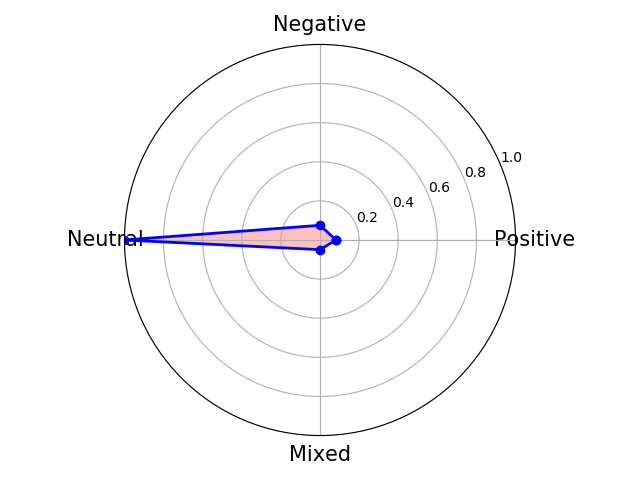
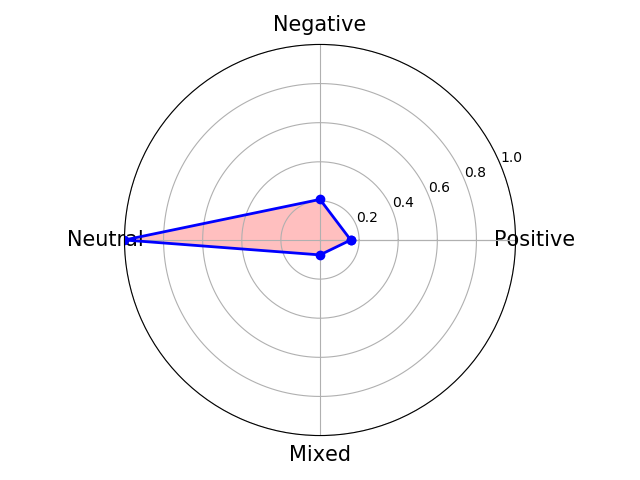
new commit

Changed region(s): [[0.1875, 0.4062, 0.5625, 0.5625]]

diff --git a/demo/demo/views.py b/demo/demo/views.py
@@ -107,12 +107,9 @@ $(document).ready(function(){
             to_date = (pd._libs.tslibs.period.Period(year + '-' + month,'M') - 3 ).strftime(r'%m/%d/%Y')
 
 
-        try:
-            news= Tool.scrape_news_summaries(word, from_date, to_date)
-            news_text = " ".join([(" ").join(k) for k in news])
-            Tool.plotSenti(news_text)
-        except:
-            news = None
+        news= Tool.scrape_news_summaries(word, from_date, to_date)
+        news_text = " ".join([(" ").join(k) for k in news])
+        Tool.plotSenti(news_text)
         
         context = {'year':year, 'qtr':qtr, 'word': word, 'tickers': tickers, 'news':news, 'from_date': from_date, 'to_date': to_date}
         return render(request, 'demo/home.html', context)

diff --git a/demo/demo/Tool.py b/demo/demo/Tool.py
@@ -556,7 +556,7 @@ def plotSenti(text):
     comprehend = boto3.client(service_name='comprehend', region_name='us-east-1')
     senti_result=comprehend.detect_sentiment(Text = text , LanguageCode='en')
     for k in senti_result['SentimentScore'].keys():
-        senti_result['SentimentScore'][k] = senti_result['SentimentScore'][k] * 10.0
+        senti_result['SentimentScore'][k] = senti_result['SentimentScore'][k] * 40.0
         if senti_result['SentimentScore'][k] >= 1.0:
             senti_result['SentimentScore'][k] =  1.0
    #=======自己设置开始============
